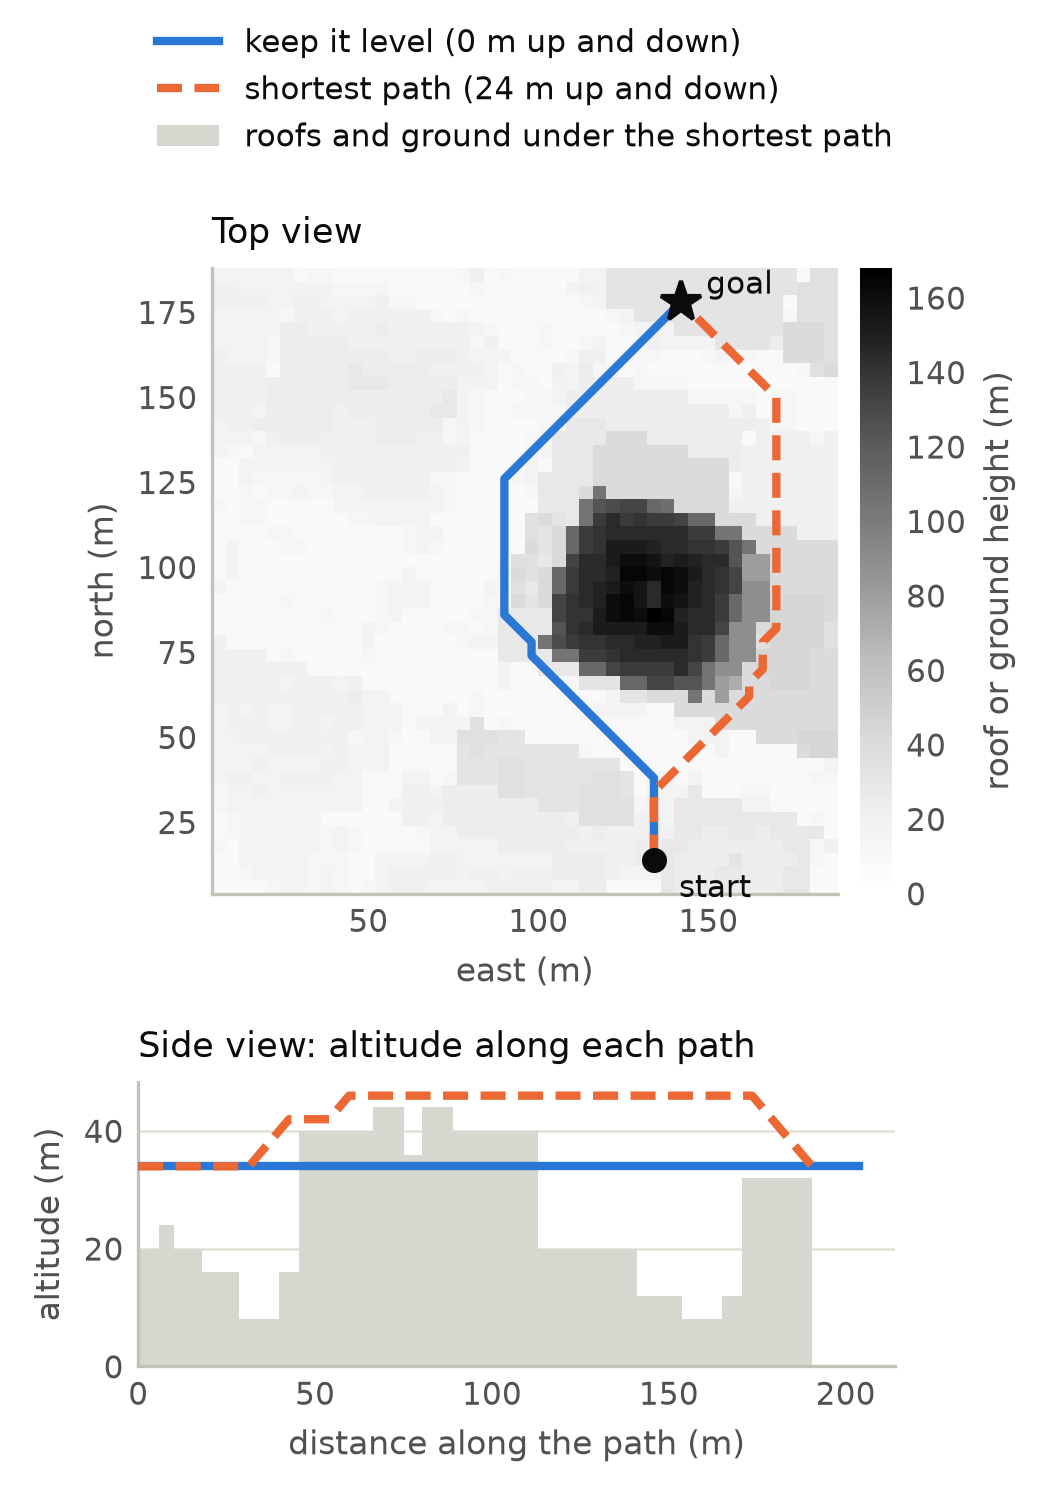
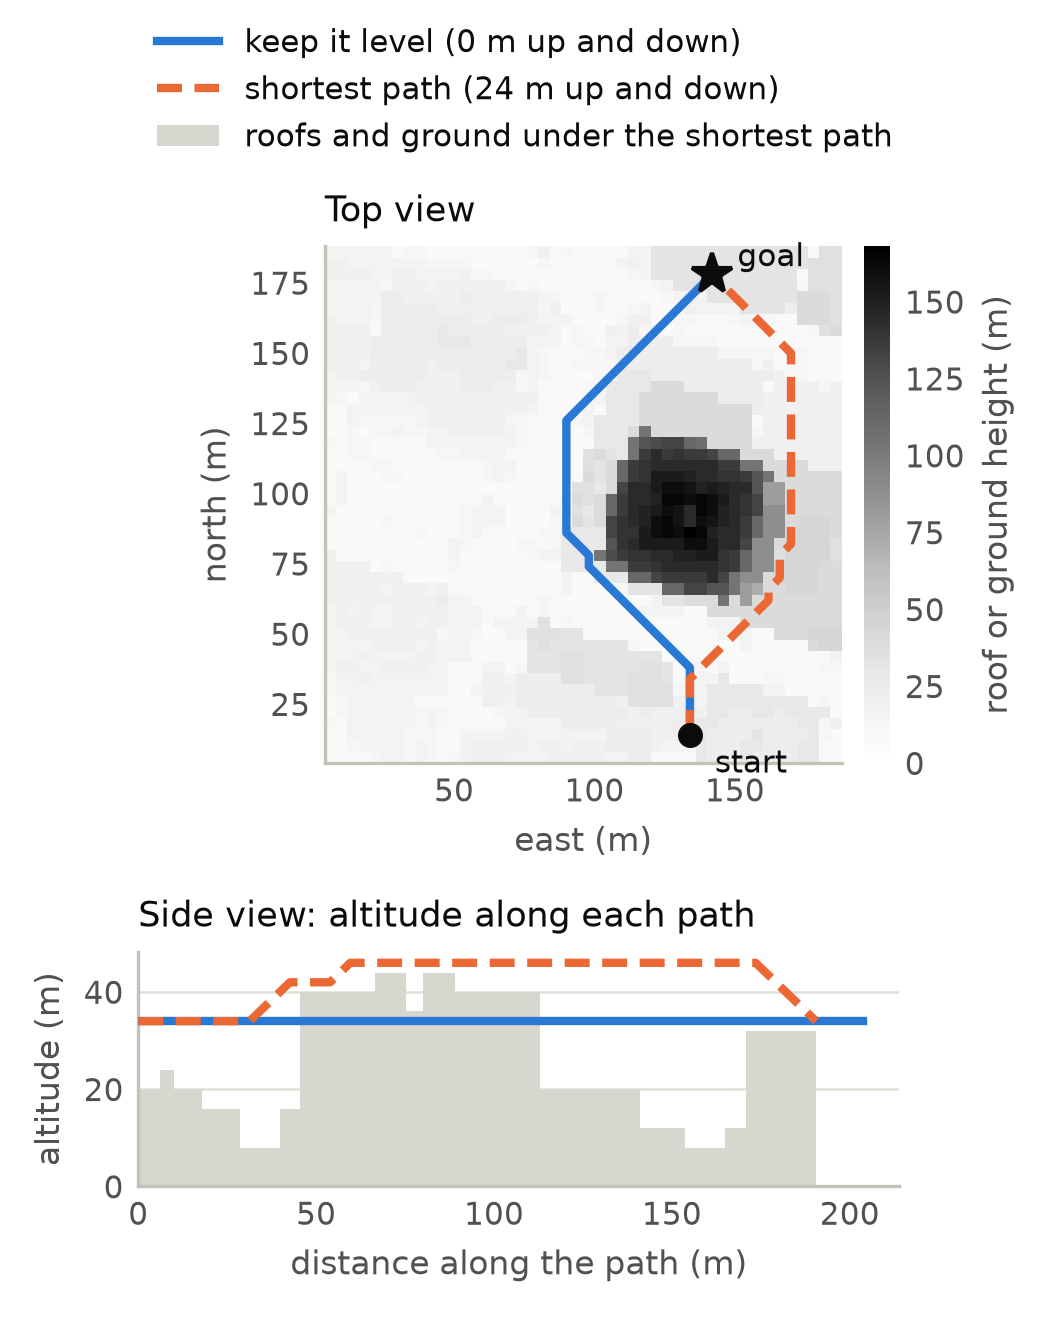
Add overview, example path, per-instruction and planner figures; shorten figures to fit six pages

diff --git a/src/ig3d/paperfigs.py b/src/ig3d/paperfigs.py
@@ -11,23 +11,32 @@ matplotlib.rcParams["pdf.fonttype"] = 42
 matplotlib.rcParams["ps.fonttype"] = 42
 import matplotlib.pyplot as plt  # noqa: E402
 import numpy as np  # noqa: E402
+from matplotlib.patches import FancyArrowPatch, Rectangle  # noqa: E402
 
 from .config import DEFAULT  # noqa: E402
 from .costfield import gt_field_from_features, volume_features  # noqa: E402
-from .instructions import CLASSES  # noqa: E402
+from .experiments import TEST_SEED  # noqa: E402
+from .instructions import ALL_LABELS, CLASSES, TIER  # noqa: E402
 from .lidar import BORDER, REAL_CLASSES, SIZE, VOXEL_M, blocks_path, load_blocks  # noqa: E402
 from .lidar import OUT as AUSTIN  # noqa: E402
 from .metrics import behaviour  # noqa: E402
-from .multiseed import load, matrix, stats  # noqa: E402
+from .multiseed import load, matrix, run_dir, stats  # noqa: E402
 from .paths import FIGURES, RESULTS  # noqa: E402
 from .planner_grid import GridGraph  # noqa: E402
+from .volumes import generate  # noqa: E402
 
 INK, INK2, GRID, AXIS = "#0b0b0b", "#52514e", "#e1e0d9", "#c3c2b7"
 ONE, TWO, THREE = "#eb6834", "#1baf7a", "#2a78d6"
 NLI, EMBED = "#eda100", "#008300"
 SYNTH, REAL = "#86b6ef", "#184f95"
+ONE_LIGHT, THREE_LIGHT = "#f6b89c", "#a3c4ee"
+WALL, PILLAR = "#b9b8ae", "#e6e5de"
 TIER1 = ("open", "tight", "low", "high", "shortest")
 TIER3 = ("climb_open", "descend_open")
+EXAMPLE_WORLD = 9
+NAMES = {"open": "wide openings", "tight": "tight gaps", "low": "stay low", "high": "stay high",
+         "shortest": "shortest", "level": "keep it level", "climb_open": "climb in the open",
+         "descend_open": "descend in the open"}
 plt.rcParams.update({"font.size": 8, "axes.titlesize": 8.5, "axes.labelsize": 8,
                      "xtick.labelsize": 7.5, "ytick.labelsize": 7.5, "legend.fontsize": 7.5})
 
@@ -53,16 +62,19 @@ def save(fig, name):
     return out
 
 
-def bars(ax, groups, series, width=0.26, fmt="{:.1f}", inside=False):
-    """series: (label, colour, means, lows, highs), values in percent; lows/highs may be None."""
+def bars(ax, groups, series, width=0.26, fmt="{:.1f}", inside=False, label_size=6.5):
+    """series: (label, colour, means, lows, highs[, hatch]), values in percent; lows/highs may be None."""
     x = np.arange(len(groups))
     n = len(series)
-    tops = [np.asarray(hi if hi is not None else mean, float) for _, _, mean, lo, hi in series]
+    tops = [np.asarray(s[4] if s[4] is not None else s[2], float) for s in series]
+    bottoms = [np.asarray(s[3] if s[3] is not None else s[2], float) for s in series]
     peak = float(np.max(tops))
-    for i, (label, colour, mean, lo, hi) in enumerate(series):
+    floor = min(0.0, float(np.min(bottoms)))
+    for i, (label, colour, mean, lo, hi, *hatch) in enumerate(series):
         pos = x + (i - (n - 1) / 2) * width
         mean = np.asarray(mean, float)
-        ax.bar(pos, mean, width * 0.88, color=colour, label=label, zorder=2)
+        ax.bar(pos, mean, width * 0.88, color=colour, label=label, zorder=2,
+               hatch=hatch[0] if hatch else None, edgecolor="white", lw=0)
         top = mean
         if lo is not None:
             lo, hi = np.asarray(lo, float), np.asarray(hi, float)
@@ -71,18 +83,20 @@ def bars(ax, groups, series, width=0.26, fmt="{:.1f}", inside=False):
             top = np.maximum(hi, mean)
         for p, m, t in zip(pos, mean, top):
             if inside:
-                ax.text(p, m - 0.03 * peak, fmt.format(m), ha="center", va="top", fontsize=6.5,
+                ax.text(p, m - 0.03 * peak, fmt.format(m), ha="center", va="top", fontsize=label_size,
                         color=INK, zorder=6)
             else:
-                ax.text(p, t + 0.03 * peak, fmt.format(m), ha="center", va="bottom", fontsize=6.5,
+                ax.text(p, t + 0.03 * peak, fmt.format(m), ha="center", va="bottom", fontsize=label_size,
                         color=INK2, zorder=4)
     ax.set_xticks(x)
     ax.set_xticklabels(groups)
-    ax.set_ylim(0, peak * 1.2)
+    ax.set_ylim(floor * 1.4, peak * 1.2)
+    if floor < 0:
+        ax.axhline(0, color=AXIS, lw=0.8, zorder=1)
 
 
-def summary(rows_by_seed, classes):
-    st = stats(matrix(rows_by_seed, "grid_regret", list(classes)))
+def summary(rows_by_seed, classes, key="grid_regret"):
+    st = stats(matrix(rows_by_seed, key, list(classes)))
     return 100 * st["mean"], 100 * st["lo"], 100 * st["hi"]
 
 
@@ -132,7 +146,7 @@ def fig_paths():
     height = v.occ[:-1].sum(axis=0) * VOXEL_M
     inner = height[BORDER:-BORDER, BORDER:-BORDER]
     lo_m, hi_m = BORDER * VOXEL_M, (SIZE - BORDER) * VOXEL_M
-    fig, (ax_top, ax_side) = plt.subplots(2, 1, figsize=(3.5, 5.0),
+    fig, (ax_top, ax_side) = plt.subplots(2, 1, figsize=(3.5, 4.4),
                                           gridspec_kw=dict(height_ratios=(2.2, 1)))
     im = ax_top.imshow(inner, origin="lower", cmap="Greys", vmin=0, vmax=float(inner.max()),
                        extent=(lo_m, hi_m, lo_m, hi_m), interpolation="nearest")
@@ -247,9 +261,211 @@ def fig_probe():
     return save(fig, "sentence_probe")
 
 
+def test_world(index=EXAMPLE_WORLD):
+    v = generate(index + 1, TEST_SEED, DEFAULT.volume)[index]
+    return v, volume_features(v, DEFAULT.cost)
+
+
+def side_view(ax, v):
+    Z, Y, _ = v.shape
+    ax.add_patch(Rectangle((0, 0), Y, Z, facecolor="white", edgecolor=AXIS, lw=0.8, zorder=0))
+    solid = v.occ[BORDER:-BORDER].all(axis=0)
+    for y0, y1 in v.walls:
+        solid[y0:y1 + 1] = False
+    solid[:BORDER] = solid[-BORDER:] = False
+    for y in np.flatnonzero(solid[:, BORDER:-BORDER].any(axis=1)):
+        ax.add_patch(Rectangle((y, 0), 1, Z, color=PILLAR, lw=0, zorder=0.5))
+    for y0, y1 in v.walls:
+        ax.add_patch(Rectangle((y0, 0), y1 - y0 + 1, Z, color=WALL, lw=0, zorder=1))
+    for w in v.windows:
+        z0, z1, y0, y1, _, _ = w.box
+        ax.add_patch(Rectangle((y0 - 0.4, z0), y1 - y0 + 1.8, z1 - z0 + 1, facecolor="white",
+                               edgecolor=INK2, lw=0.7, zorder=1.5,
+                               ls="-" if w.kind == "wide" else (0, (1.5, 1))))
+    ax.set_xlim(0, Y)
+    ax.set_ylim(0, Z)
+    ax.set_aspect("equal")
+    ax.set_xticks([])
+    ax.set_yticks([])
+    for s in ax.spines.values():
+        s.set_visible(False)
+
+
+def draw_route(ax, path, colour, ls="-", lw=1.6, label=None):
+    p = np.asarray(path, float)
+    ax.plot(p[:, 1] + 0.5, p[:, 0] + 0.5, color=colour, lw=lw, ls=ls, label=label, zorder=3,
+            solid_capstyle="round")
+
+
+def endpoints(ax, v):
+    ax.plot(v.start[1] + 0.5, v.start[0] + 0.5, "o", color=INK, ms=3.5, zorder=4)
+    ax.plot(v.goal[1] + 0.5, v.goal[0] + 0.5, "*", color=INK, ms=6.5, zorder=4)
+
+
+def side_mean(channel, free):
+    n = free.sum(axis=2)
+    with np.errstate(all="ignore"):
+        return np.where(n > 0, (channel * free).sum(axis=2) / np.maximum(n, 1), np.nan)
+
+
+def fig_overview(model="k3_onehot", cls="climb_open"):
+    from .device import get_device
+    from .instructions import ALL_SENTENCES
+    from .planner_prm import plan as prm_plan
+    from .train import load_model, predict
+
+    v, f = test_world()
+    dev = get_device()
+    net, meta = load_model(run_dir(model, 0) / "best.pt", dev)
+    held = np.asarray(meta["held_sent"])
+    si = int(held[ALL_LABELS[held] == CLASSES.index(cls)][0])
+    field = predict(net, v.occ, np.asarray(meta["cond_table"], np.float32)[si], DEFAULT.cost, dev)
+    path, _ = prm_plan(v.occ, field, v.start, v.goal, DEFAULT.prm, np.random.default_rng(0))
+    short, _ = GridGraph(v.occ).plan(gt_field_from_features(v.occ, f, "shortest", DEFAULT.cost),
+                                     v.start, v.goal)
+    free = v.occ == 0
+    W, H, s, y0 = 7.16, 1.36, 1.02, 0.05
+    fig = plt.figure(figsize=(W, H))
+
+    def panel(x, title):
+        ax = fig.add_axes((x / W, y0 / H, s / W, s / H))
+        ax.set_title(title, color=INK, fontsize=7.5, pad=3)
+        return ax
+
+    ax = panel(0.08, "occupancy (side view)")
+    side_view(ax, v)
+    endpoints(ax, v)
+    cmap = plt.get_cmap("Blues").copy()
+    cmap.set_bad(WALL)
+    names = ("travel cost $c$", "climb cost $a_\\mathrm{up}$", "descent cost $a_\\mathrm{dn}$")
+    for i, name in enumerate(names):
+        ax = panel(2.02 + i * (s + 0.08), name)
+        im = ax.imshow(side_mean(field[i], free), origin="lower", cmap=cmap, vmin=0, vmax=1,
+                       extent=(0, v.shape[1], 0, v.shape[0]), interpolation="nearest")
+        ax.set_xticks([])
+        ax.set_yticks([])
+        for sp in ax.spines.values():
+            sp.set_color(AXIS)
+    cax = fig.add_axes(((2.02 + 3 * (s + 0.08) - 0.02) / W, y0 / H, 0.06 / W, s / H))
+    cb = fig.colorbar(im, cax=cax, ticks=(0, 0.5, 1))
+    cb.outline.set_visible(False)
+    cb.ax.tick_params(colors=INK2, length=0, labelsize=6.5)
+    ax = panel(6.1, "planned path")
+    side_view(ax, v)
+    draw_route(ax, short, INK2, ls=(0, (2.5, 1.5)), lw=1.1)
+    draw_route(ax, path, THREE)
+    endpoints(ax, v)
+    words = ALL_SENTENCES[si].rstrip(".").split()
+    wrapped = "“" + " ".join(words[:3]) + "\n" + " ".join(words[3:6]) + "\n" + " ".join(words[6:]) + ".”"
+    fig.text(1.56 / W, (y0 + s) / H, wrapped, ha="center", va="top", fontsize=6.5, color=INK,
+             style="italic", linespacing=1.25)
+    for x0, x1, label in ((1.14, 1.98, "3D U-Net"), (5.62, 6.06, "PRM")):
+        yc = (y0 + 0.3) / H
+        fig.add_artist(FancyArrowPatch((x0 / W, yc), (x1 / W, yc), transform=fig.transFigure,
+                                       arrowstyle="-|>", mutation_scale=8, color=INK, lw=1.0))
+        fig.text(0.5 * (x0 + x1) / W, yc + 0.06 / H, label, ha="center", va="bottom",
+                 fontsize=7, color=INK, weight="bold")
+    beh = behaviour(v, path, f["edt"]), behaviour(v, short, f["edt"])
+    print("overview: sentence '{}', climb clearance planned {:.1f} vs shortest {:.1f}".format(
+        ALL_SENTENCES[si], beh[0]["climb_clear"], beh[1]["climb_clear"]))
+    return save(fig, "method_overview")
+
+
+def fig_examples():
+    v, f = test_world()
+    G = GridGraph(v.occ)
+    plans = {c: G.plan(gt_field_from_features(v.occ, f, c, DEFAULT.cost), v.start, v.goal)[0]
+             for c in CLASSES}
+    beh = {c: behaviour(v, p, f["edt"]) for c, p in plans.items()}
+    Z = v.shape[0] - 1
+
+    def narrow(c):
+        return "{:.0f} of {:.0f} windows narrow".format(beh[c]["n_narrow"], beh[c]["n_windows"])
+
+    def alt(c):
+        return "mean altitude {:.0f}".format(beh[c]["mean_alt"] * Z)
+
+    def vert(c):
+        return "{:.0f} voxels up and down".format(beh[c]["vertical"])
+
+    def clear(c):
+        return "clearance while climbing {:.1f}".format(beh[c]["climb_clear"])
+
+    panels = (("(a)", "open", "tight", narrow), ("(b)", "low", "high", alt),
+              ("(c)", "level", "shortest", vert), ("(d)", "climb_open", "descend_open", clear))
+    fig, axes = plt.subplots(1, 4, figsize=(7.16, 2.12))
+    for ax, (tag, a, b, fmt) in zip(axes, panels):
+        side_view(ax, v)
+        draw_route(ax, plans[b], ONE, ls=(0, (2.5, 1.2)), label="{}: {}".format(NAMES[b], fmt(b)))
+        draw_route(ax, plans[a], THREE, label="{}: {}".format(NAMES[a], fmt(a)))
+        endpoints(ax, v)
+        ax.set_title("{} {}\nvs {}".format(tag, NAMES[a], NAMES[b]), color=INK, fontsize=7.5)
+        h, lab = ax.get_legend_handles_labels()
+        ax.legend(h[::-1], [t.replace(": ", ":\n") for t in lab[::-1]], loc="upper center",
+                  bbox_to_anchor=(0.5, -0.02), frameon=False, fontsize=6.3, labelcolor=INK,
+                  handlelength=2.2, borderaxespad=0)
+    fig.tight_layout(rect=(0, 0, 1, 1), w_pad=0.6)
+    fig.subplots_adjust(bottom=0.28, top=0.84)
+    return save(fig, "example_paths")
+
+
+def fig_per_class():
+    held = json.loads((RESULTS / "multiseed" / "report.json").read_text())["held"]
+    methods = (("k3_onehot", "class given", THREE), ("k3_nli", "NLI", NLI),
+               ("k3_embedding", "sentence embedding", EMBED))
+    fig, ax = plt.subplots(figsize=(3.5, 2.8))
+    y = np.arange(len(CLASSES))
+    h = 0.27
+    for j, (m, label, colour) in enumerate(methods):
+        g = held[m]["grid_regret"]
+        mean = np.array([100 * g[c]["mean"] for c in CLASSES])
+        lo = np.array([100 * g[c]["lo"] for c in CLASSES])
+        hi = np.array([100 * g[c]["hi"] for c in CLASSES])
+        pos = y + (j - 1) * h
+        ax.barh(pos, mean, h * 0.88, color=colour, label=label, zorder=2)
+        ax.errorbar(mean, pos, xerr=[np.maximum(mean - lo, 0), np.maximum(hi - mean, 0)],
+                    fmt="none", ecolor=INK, elinewidth=0.7, capsize=1.5, zorder=3)
+        for p, mv, hv in zip(pos, mean, hi):
+            ax.text(max(hv, mv) + 0.8, p, "{:.1f}".format(mv), va="center", fontsize=6, color=INK2)
+    for t in (4.5, 5.5):
+        ax.axhline(t, color=AXIS, lw=0.8, ls=(0, (2, 2)))
+    ax.set_yticks(y)
+    ax.set_yticklabels(["{} (tier {})".format(NAMES[c], TIER[c]) for c in CLASSES])
+    ax.invert_yaxis()
+    for s in ("top", "right"):
+        ax.spines[s].set_visible(False)
+    for s in ("left", "bottom"):
+        ax.spines[s].set_color(AXIS)
+    ax.tick_params(colors=INK2, length=0)
+    ax.grid(axis="x", color=GRID, lw=0.6)
+    ax.set_axisbelow(True)
+    ax.set_xlabel("extra cost on new wording (%)", color=INK2)
+    ax.set_xlim(0, 47)
+    top_legend(fig, ax, 3, 0.93)
+    return save(fig, "per_instruction")
+
+
+def fig_planners():
+    synth = load("held")
+    groups = ["other\ninstructions", "keep it\nlevel", "climb or descend\nin the open"]
+    fig, ax = plt.subplots(figsize=(3.5, 2.2))
+    series = []
+    for name, ch, dark, light in (("k1_onehot", "1 channel", ONE, ONE_LIGHT),
+                                  ("k3_onehot", "3 channels", THREE, THREE_LIGHT)):
+        for key, planner, colour, hatch in (("grid_regret", "exact", dark, None),
+                                            ("prm_regret", "PRM", light, "////")):
+            vals = [summary(synth[name], c, key) for c in (TIER1, ("level",), TIER3)]
+            series.append(("{}, {}".format(ch, planner), colour, *zip(*vals), hatch))
+    bars(ax, groups, series, width=0.21, label_size=5.6)
+    style(ax, "extra cost (%)")
+    top_legend(fig, ax, 2, 0.84)
+    return save(fig, "planner_comparison")
+
+
 def main():
     warnings.filterwarnings("ignore", message="Mean of empty slice")
-    for fn in (fig_paths, fig_channels, fig_learned, fig_input, fig_probe):
+    for fn in (fig_overview, fig_examples, fig_per_class, fig_planners,
+               fig_paths, fig_channels, fig_learned, fig_input, fig_probe):
         print("wrote " + str(fn()))
 
 
